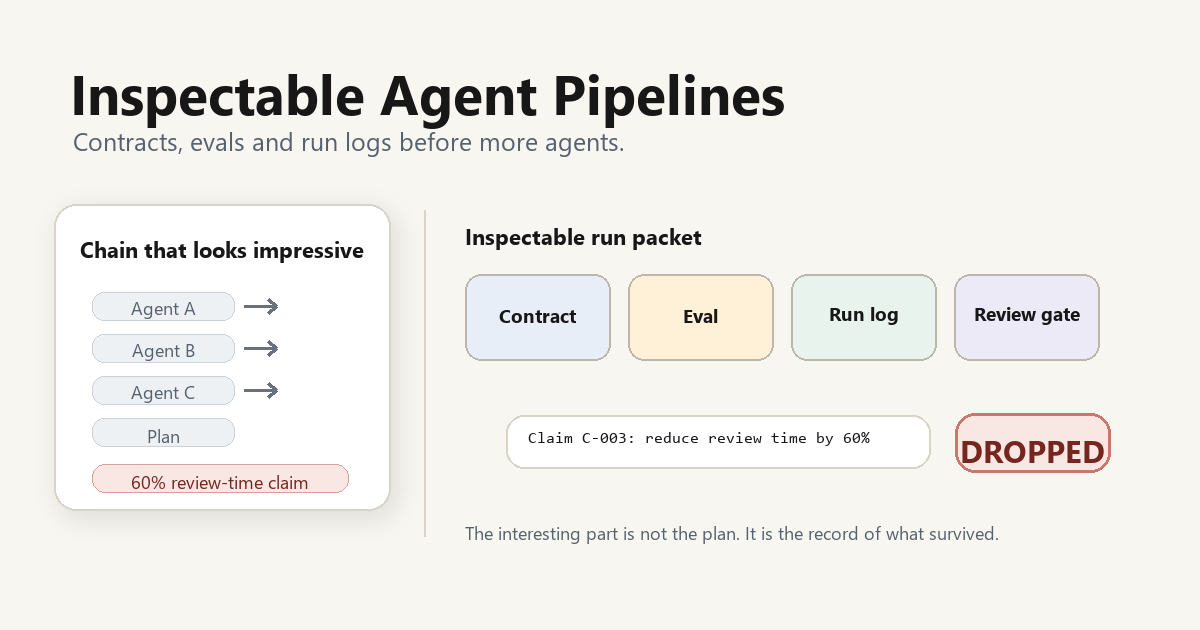
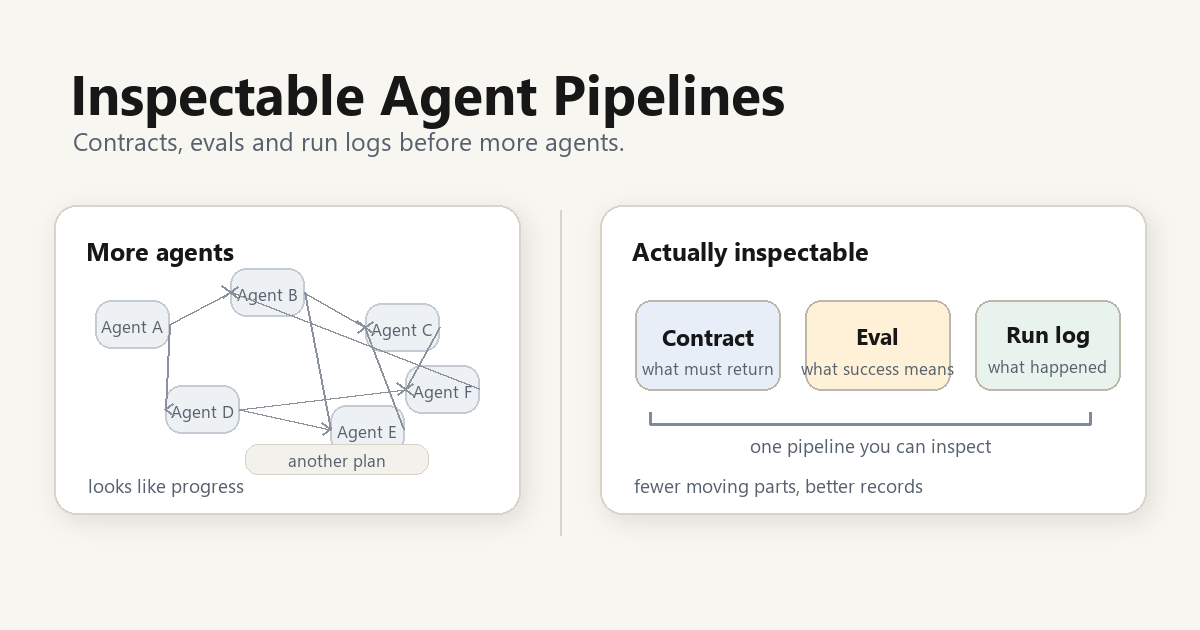
Refocus hero and reduce README redundancy

diff --git a/src/runtime/orchestrator.ts b/src/runtime/orchestrator.ts
@@ -16,6 +16,8 @@ import type { ReviewOutput } from '../contracts/review.contract.js';
 import { ReviewOutputSchema } from '../contracts/review.contract.js';
 import type { RiskOutput } from '../contracts/risk.contract.js';
 import { RiskOutputSchema } from '../contracts/risk.contract.js';
+import type { PipelineClock } from './clock.js';
+import { systemClock } from './clock.js';
 import { createRunId } from './ids.js';
 import { RunLogger } from './run-log.js';
 import { validateOrThrow } from './validate.js';
@@ -33,6 +35,7 @@ export type PipelineOptions = {
   outputDir?: string;
   runId?: string;
   overrides?: PipelineOverrides;
+  clock?: PipelineClock;
 };
 
 export type PipelineSummary = {
@@ -48,7 +51,8 @@ export async function runInspectablePipeline(options: PipelineOptions): Promise<
   const runId = options.runId ?? createRunId(input.request);
   const outputDir = options.outputDir ?? join('examples', 'runs', runId);
   const logPath = join(outputDir, 'run.jsonl');
-  const logger = new RunLogger(runId, logPath);
+  const clock = options.clock ?? systemClock;
+  const logger = new RunLogger(runId, logPath, clock.nowIso);
   const files: string[] = [];
 
   await mkdir(outputDir, { recursive: true });
@@ -58,7 +62,7 @@ export async function runInspectablePipeline(options: PipelineOptions): Promise<
   await logger.event({ event: 'run.started', status: 'started', detail: { output_dir: outputDir } });
 
   try {
-    const intake = await timedStep(logger, 'intake', async () =>
+    const intake = await timedStep(logger, clock, 'intake', async () =>
       validateOrThrow(
         IntakeOutputSchema,
         await intakeMock(input, options.overrides?.intake),
@@ -67,12 +71,12 @@ export async function runInspectablePipeline(options: PipelineOptions): Promise<
     );
     await writeJson(join(outputDir, '01-intake.json'), intake, files);
 
-    const risk = await timedStep(logger, 'risk', async () =>
+    const risk = await timedStep(logger, clock, 'risk', async () =>
       validateOrThrow(RiskOutputSchema, await riskMock({ intake }, options.overrides?.risk), 'risk-agent'),
     );
     await writeJson(join(outputDir, '02-risk.json'), risk, files);
 
-    const plan = await timedStep(logger, 'plan', async () =>
+    const plan = await timedStep(logger, clock, 'plan', async () =>
       validateOrThrow(
         PlanOutputSchema,
         await planMock({ intake, risk }, options.overrides?.plan),
@@ -81,7 +85,7 @@ export async function runInspectablePipeline(options: PipelineOptions): Promise<
     );
     await writeJson(join(outputDir, '03-plan.json'), plan, files);
 
-    const review = await timedStep(logger, 'review', async () =>
+    const review = await timedStep(logger, clock, 'review', async () =>
       validateOrThrow(
         ReviewOutputSchema,
         await reviewGateMock({ plan }, options.overrides?.review),
@@ -90,7 +94,7 @@ export async function runInspectablePipeline(options: PipelineOptions): Promise<
     );
     await writeJson(join(outputDir, '04-review.json'), review, files);
 
-    const decision = await timedStep(logger, 'decision', async () =>
+    const decision = await timedStep(logger, clock, 'decision', async () =>
       validateOrThrow(
         DecisionOutputSchema,
         await decisionWriterMock({ plan, review }, options.overrides?.decision),
@@ -123,8 +127,13 @@ export async function runInspectablePipeline(options: PipelineOptions): Promise<
   }
 }
 
-async function timedStep<T>(logger: RunLogger, step: string, fn: () => Promise<T>): Promise<T> {
-  const started = Date.now();
+async function timedStep<T>(
+  logger: RunLogger,
+  clock: PipelineClock,
+  step: string,
+  fn: () => Promise<T>,
+): Promise<T> {
+  const started = clock.nowMs();
   await logger.event({ event: 'step.started', step, status: 'started' });
   try {
     const result = await fn();
@@ -132,7 +141,7 @@ async function timedStep<T>(logger: RunLogger, step: string, fn: () => Promise<T
       event: 'step.completed',
       step,
       status: 'ok',
-      duration_ms: Date.now() - started,
+      duration_ms: clock.nowMs() - started,
     });
     return result;
   } catch (error) {
@@ -140,7 +149,7 @@ async function timedStep<T>(logger: RunLogger, step: string, fn: () => Promise<T
       event: 'step.failed',
       step,
       status: 'failed',
-      duration_ms: Date.now() - started,
+      duration_ms: clock.nowMs() - started,
       detail: { message: error instanceof Error ? error.message : String(error) },
     });
     throw error;

diff --git a/src/runtime/clock.ts b/src/runtime/clock.ts
@@ -1,0 +1,23 @@
+export type PipelineClock = {
+  nowIso: () => string;
+  nowMs: () => number;
+};
+
+export const systemClock: PipelineClock = {
+  nowIso: () => new Date().toISOString(),
+  nowMs: () => Date.now(),
+};
+
+export function createDeterministicClock(startIso: string, stepMs = 10): PipelineClock {
+  let currentMs = Date.parse(startIso);
+
+  function tick(): number {
+    currentMs += stepMs;
+    return currentMs;
+  }
+
+  return {
+    nowIso: () => new Date(tick()).toISOString(),
+    nowMs: () => tick(),
+  };
+}

diff --git a/src/runtime/run-log.ts b/src/runtime/run-log.ts
@@ -15,12 +15,13 @@ export class RunLogger {
   constructor(
     private readonly runId: string,
     private readonly filePath: string,
+    private readonly nowIso: () => string = () => new Date().toISOString(),
   ) {}
 
   async event(event: Omit<RunLogEvent, 'ts' | 'run_id'>): Promise<void> {
     await mkdir(dirname(this.filePath), { recursive: true });
     const row: RunLogEvent = {
-      ts: new Date().toISOString(),
+      ts: this.nowIso(),
       run_id: this.runId,
       ...event,
     };

diff --git a/src/cli.ts b/src/cli.ts
@@ -1,4 +1,5 @@
 import { runInspectablePipeline } from './runtime/orchestrator.js';
+import { createDeterministicClock } from './runtime/clock.js';
 
 const DEFAULT_REQUEST =
   'Build a browser extension that summarizes long procurement notices for small suppliers.';
@@ -7,6 +8,7 @@ const summary = await runInspectablePipeline({
   request: process.argv.slice(2).join(' ') || DEFAULT_REQUEST,
   outputDir: 'examples/runs/sample-run',
   runId: 'sample-run',
+  clock: createDeterministicClock('2026-06-30T12:00:00.000Z'),
 });
 
 console.log(`Inspectable pipeline completed: ${summary.verdict}`);

diff --git a/README.md b/README.md
@@ -27,6 +27,12 @@ The problem starts later, when someone asks what happened:
 
 This repo shows the boring but useful version: every step has a contract, every output is validated, every run writes a log, and the review gate catches unsupported claims before they enter the final brief.
 
+## Why this is AI-specific
+
+Contracts, tests and logs are not new. The agent-specific failure is different: an LLM step can produce a plausible new claim that has the right shape but no support from upstream evidence.
+
+A schema can prove that a claim has an `id`, `text` and `supported_by` field. It cannot prove that the claim deserves to be in the final brief. That is why this demo has both schema validation and a review gate. The schema checks structure; the review gate checks whether the claim has a support path.
+
 ## What the demo does
 
 Input:
@@ -70,8 +76,8 @@ claims: z.array(
 The run log is a real JSONL file:
 
 ```json
-{"event":"step.completed","step":"plan","status":"ok","duration_ms":5}
-{"event":"step.completed","step":"review","status":"ok","duration_ms":8}
+{"ts":"2026-06-30T12:00:00.130Z","run_id":"sample-run","event":"step.completed","step":"plan","status":"ok","duration_ms":20}
+{"ts":"2026-06-30T12:00:00.170Z","run_id":"sample-run","event":"step.completed","step":"review","status":"ok","duration_ms":20}
 ```
 
 The unsupported claim is visible in `examples/runs/sample-run/04-review.json`:
@@ -84,15 +90,7 @@ The unsupported claim is visible in `examples/runs/sample-run/04-review.json`:
 }
 ```
 
-The final decision is visible in `examples/runs/sample-run/05-decision.json`:
-
-```json
-{
-  "finding_id": "F-001",
-  "decision": "drop",
-  "reason": "Drop C-003 because the review gate found no upstream support."
-}
-```
+The final decision is recorded in `examples/runs/sample-run/05-decision.json`.
 
 ## Quick start
 
@@ -142,8 +140,6 @@ The core loop is small. Each agent output is validated with Zod before it reache
 
 ![Pipeline flow from request to final brief](assets/pipeline-flow.png)
 
-![Contract eval run-log model](assets/contract-eval-runlog.png)
-
 Read more:
 
 - [Architecture](docs/architecture.md)
@@ -172,6 +168,8 @@ This repo is the code sibling of `structured-ai-research-workflows`.
 - `inspectable-agent-pipelines`: how agentic software workflows keep contracts, evals, run logs and decisions inspectable.
 
 The first is about research discipline. This one is about engineering discipline.
+
+The fix for a shaky pipeline is rarely another agent. It is a contract the next step can rely on, an eval that defines success, and a run log that shows what actually happened.
 
 ## Status
 